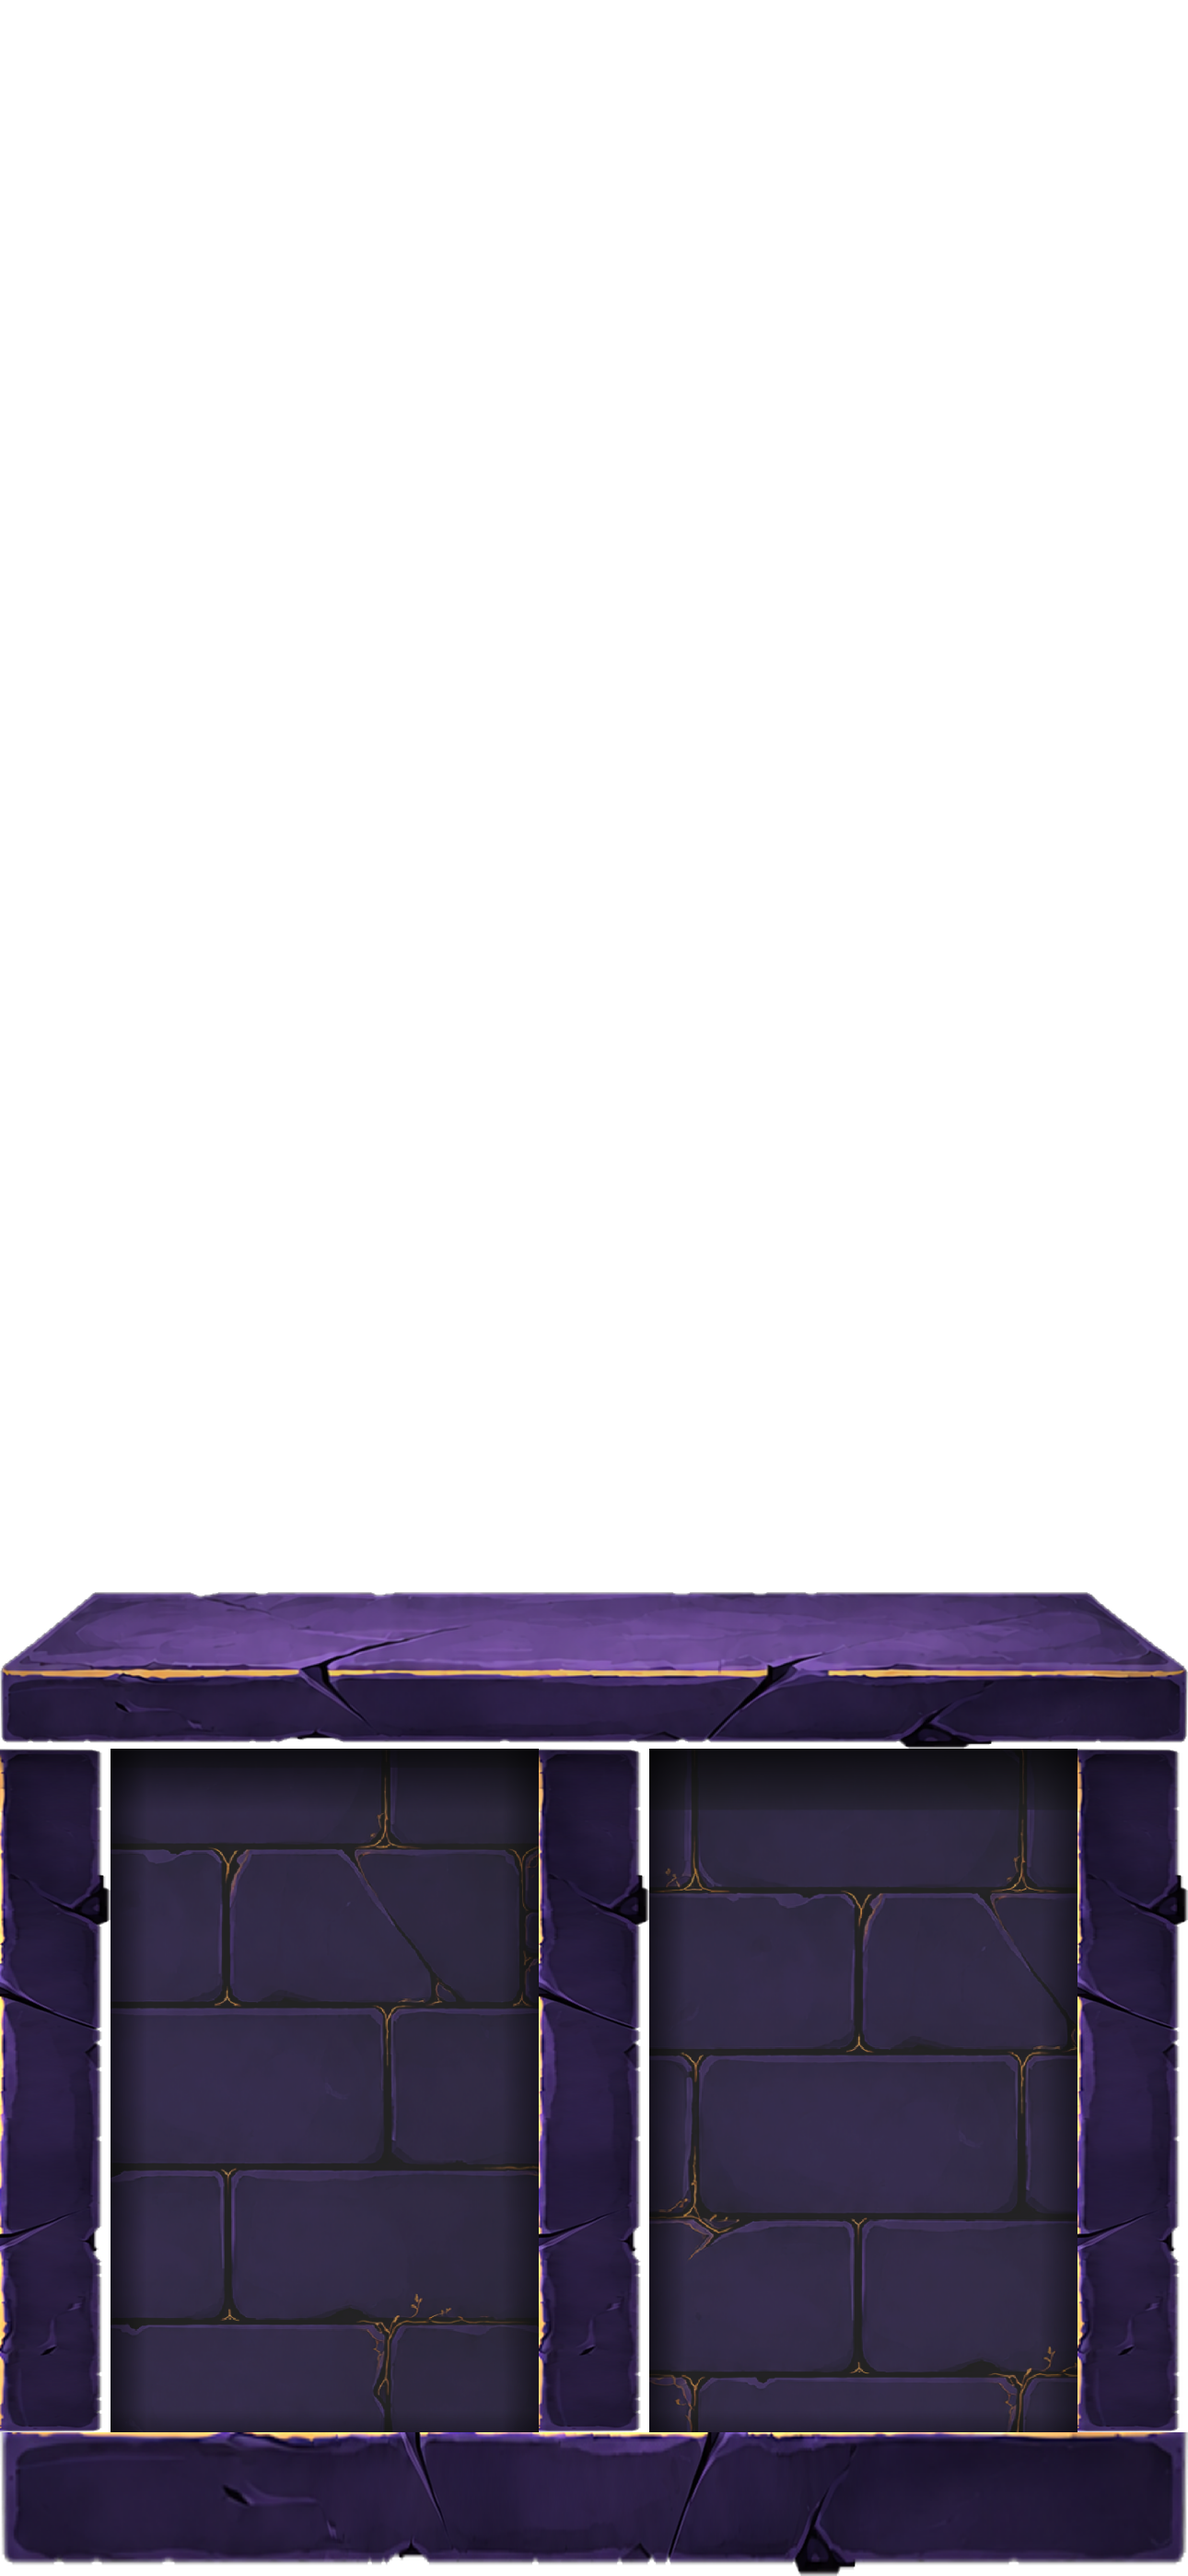
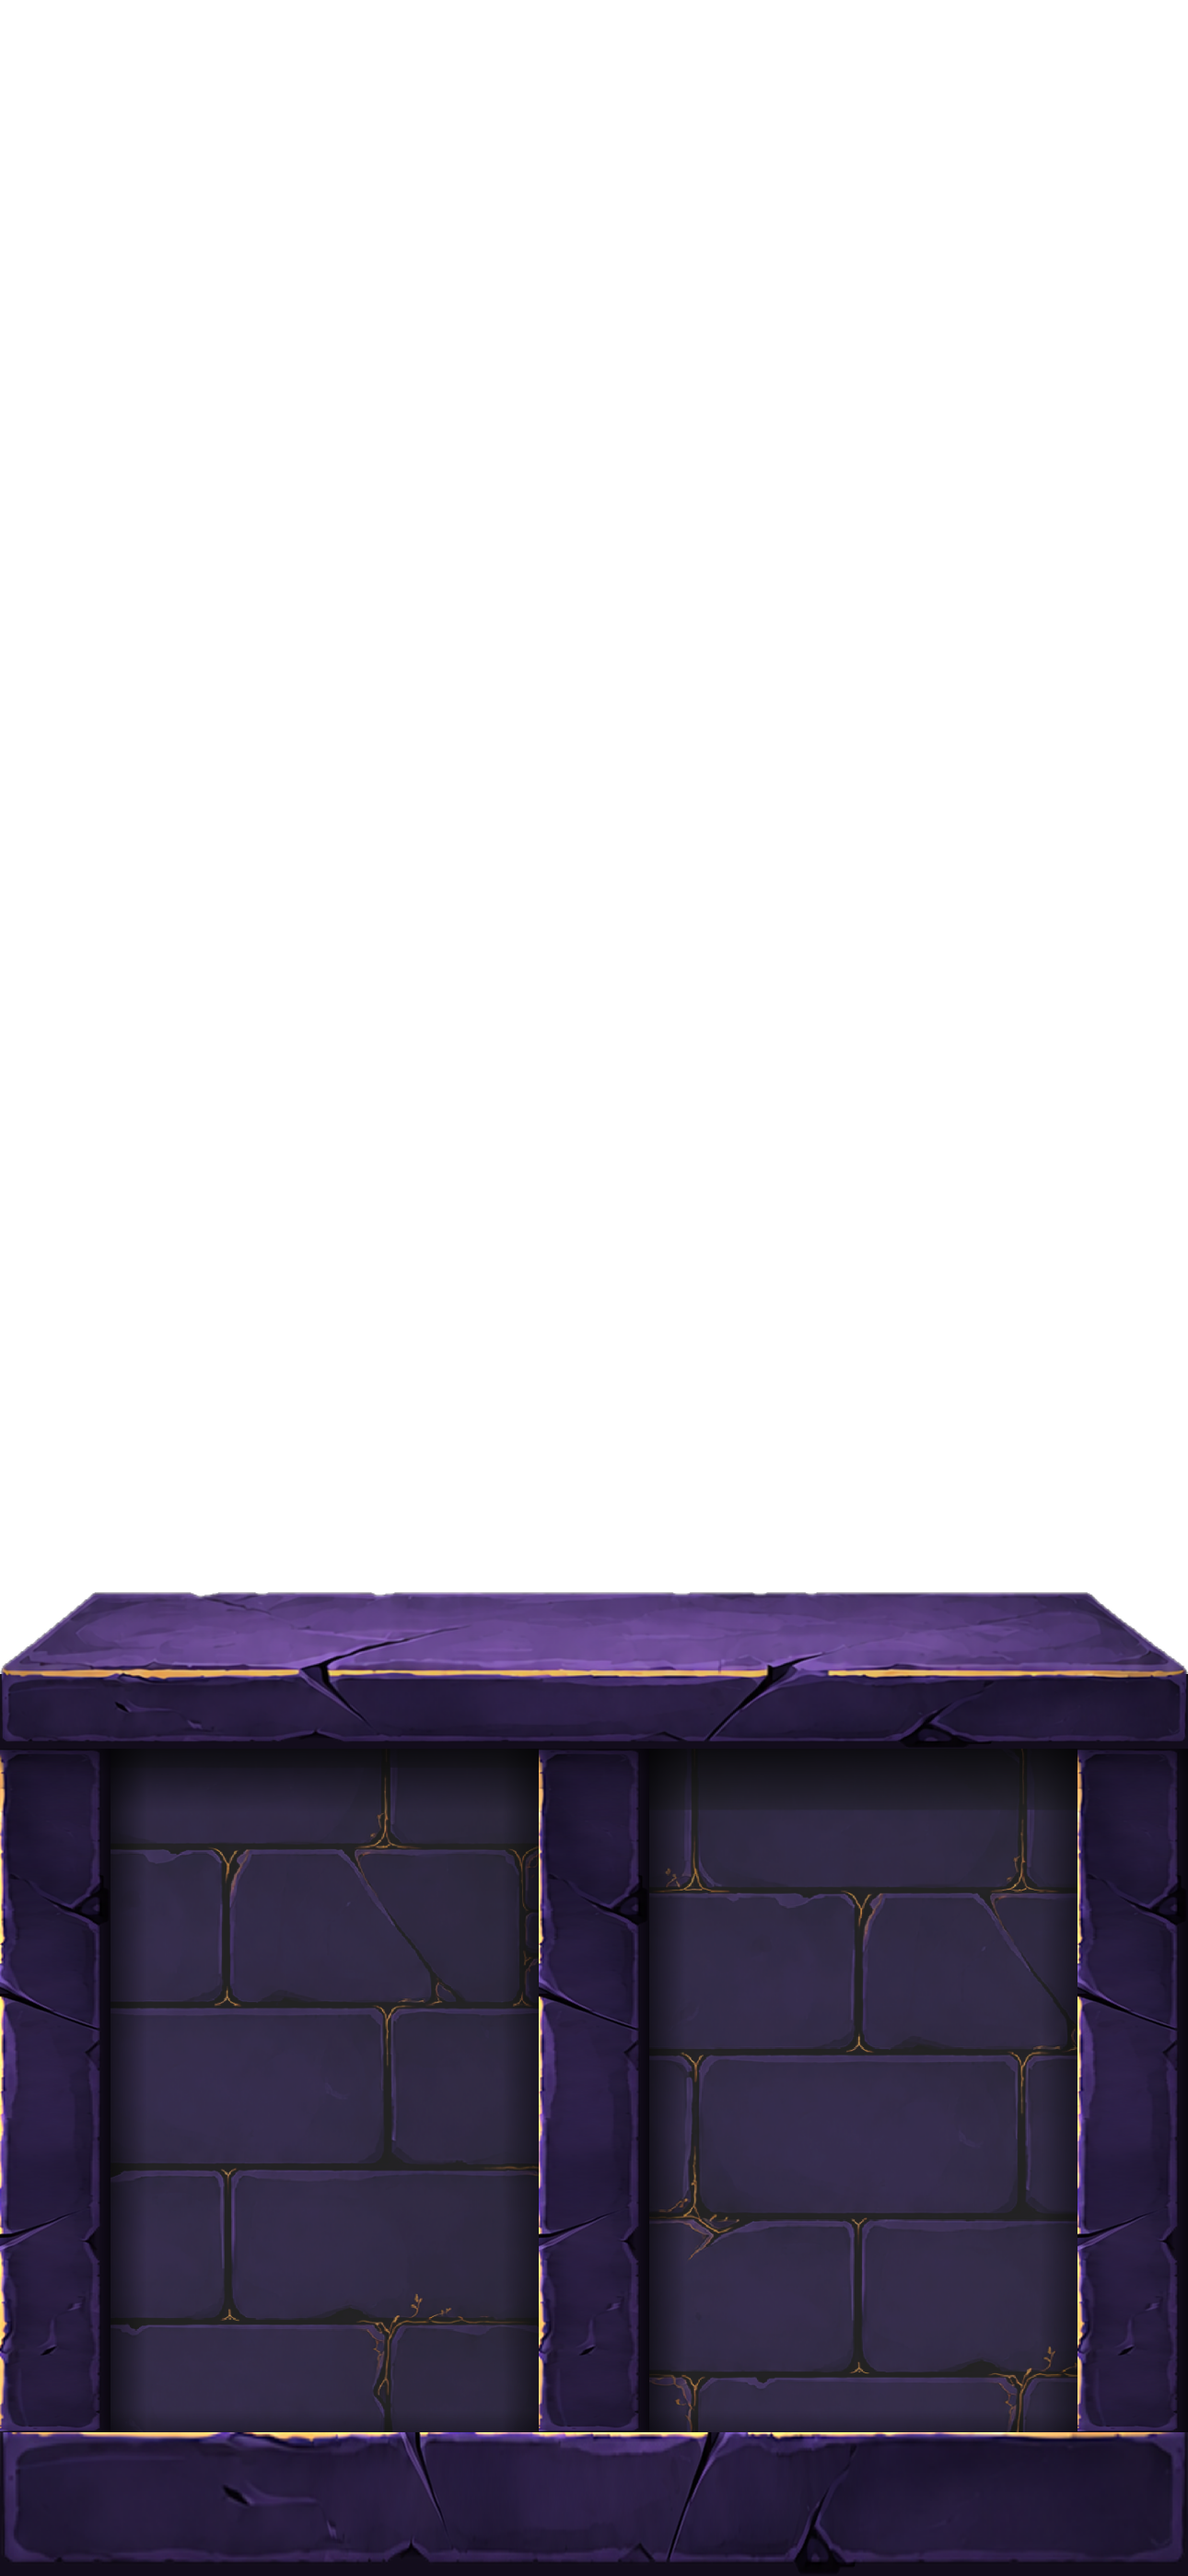
Daily: fix three device-only bugs from the first phone test
1. The castle drew over the HUD, Polly, the action label, the entry card and
   Results. The stage's layout-only root View could be flattened on native,
   letting its layers' zIndex 20-40 compete with the SafeAreaView beside it.
   With Results hidden behind the castle, the screen looked frozen. The stage
   root is now collapsable={false} at zIndex 1, with the SafeAreaView at 2. It
   was right in the browser, which stacks differently.
2. The stone blocks drew 22 pt short of their sockets and left-aligned. Their
   container kept the old flat cards' 11 pt horizontal padding, and native
   resolves an absolute child's 100% size inside the padding. The padding is
   gone; the label already insets itself.
3. The answer wall had see-through holes: about 6% of the pillar pixels, and
   slits along the pillar and capstone edges. They came from the slab art's
   alpha. build_daily_answer_wall.py now lays a solid crevice-coloured backing
   from the capstone's seam down, and asserts that the wall is opaque.

Claude-Session: https://claude.ai/code/session_01TxB5WRXMWunrcoTTHjrKMD

Changed region(s): [[0.0, 0.6534, 1.0, 1.0], [0.0, 0.6534, 0.7442, 0.9646]]

diff --git a/app/components/DailyAnswerCard.tsx b/app/components/DailyAnswerCard.tsx
@@ -615,8 +615,9 @@ export function DailyCastlePlaqueFace({
   return (
     <>
       {/* Size passed inline: a bundled image otherwise takes the art's own
-          150 × 60 as its size, which beat absoluteFill and a stylesheet 100%
-          and left the plaque short of the wider slot. */}
+          pixel size, which beat absoluteFill and a stylesheet 100% on web.
+          The container must have no padding, or native resolves 100% inside
+          it (see castlePlaque). */}
       <Image
         source={CASTLE_ANSWER_PLAQUE}
         resizeMode="stretch"
@@ -727,9 +728,10 @@ const styles = StyleSheet.create({
   },
   castlePlaque: {
     flex: 1,
-    alignItems: 'center',
-    justifyContent: 'center',
-    paddingHorizontal: 11,
+    // No padding. Both children are absolutely placed, and on native a 100%
+    // size resolves inside the padding: with 11 pt each side the stone came
+    // out 22 pt short of its socket, left-aligned (seen on device). The label
+    // insets itself (castlePlaqueFront).
     borderRadius: 6,
     overflow: 'hidden',
   },

diff --git a/app/components/DailyCastleStage.tsx b/app/components/DailyCastleStage.tsx
@@ -372,6 +372,11 @@ export default function DailyCastleStage({
       ref={stageRef}
       onLayout={measureStage}
       pointerEvents="box-none"
+      // Never flattened: the layers below carry zIndex 20–40 for their order
+      // inside the castle. If this layout-only View were flattened away (native
+      // does, web does not), those zIndexes would compete with the screen's
+      // SafeAreaView and draw the castle over the HUD, Polly and Results.
+      collapsable={false}
       style={styles.stage}
     >
       <Image
@@ -588,6 +593,8 @@ function DailyCastleFlightPlaque({
 const styles = StyleSheet.create({
   stage: {
     ...StyleSheet.absoluteFill,
+    // Under the screen's SafeAreaView (DailyChallengeScreen styles.content).
+    zIndex: 1,
   },
   layer: {
     position: 'absolute',

diff --git a/app/screens/DailyChallengeScreen.tsx b/app/screens/DailyChallengeScreen.tsx
@@ -1537,6 +1537,10 @@ const styles = StyleSheet.create({
   // edges; this holds everything that should respect the safe-area insets.
   content: {
     flex: 1,
+    // Above the castle stage (zIndex 1), which is its sibling: the HUD, Polly,
+    // the action label, the entry card and Results all live in here. It is
+    // box-none, so touches still reach the plaques in the stage below.
+    zIndex: 2,
   },
   startGate: {
     flex: 1,

diff --git a/tools/art/build_daily_answer_wall.py b/tools/art/build_daily_answer_wall.py
@@ -83,6 +83,23 @@ def main(out_path: Path) -> None:
         shade(a, x0, x1, PANEL_BOTTOM - 24, PANEL_BOTTOM, 1.0, 0.7, "y") # onto the sill
     canvas = img(a)
 
+    # Solid backing for the frame. The slab art has see-through cracks and
+    # ragged edges; laid on a transparent canvas, those became holes in the
+    # wall that showed whatever was drawn behind the castle (seen on device).
+    # Fill them with the front stone's own colour, darkened like a crevice.
+    fa = arr(front)
+    solid = fa[..., 3] > 250
+    crevice = fa[solid][:, :3].mean(axis=0) * 0.45
+    # From the capstone's gold seam down: its front face and ragged bottom
+    # edge are covered too, while its top face keeps its shape over the floor.
+    backing_top = CAP_TOP + round((SEAM + 3) * CAP_H / slab.height)
+    backing = np.empty((H - backing_top, W, 4), np.float32)
+    backing[..., :3] = crevice
+    backing[..., 3] = 255
+    under = img(backing)
+    under.alpha_composite(canvas.crop((0, backing_top, W, H)))
+    canvas.paste(under, (0, backing_top))
+
     # Pillars: the slab's front stone turned upright, edge-lit.
     pillar_tex = front.rotate(90, expand=True)
     for px in PILLARS:
@@ -103,6 +120,10 @@ def main(out_path: Path) -> None:
 
     # Capstone: the whole slab, top face and gold seam, across the wall.
     canvas.alpha_composite(three_slice(slab, W, CAP_H), (0, CAP_TOP))
+
+    # Everything below the capstone must be opaque: nothing behind the castle
+    # may show through the wall.
+    assert (np.asarray(canvas)[backing_top:, :, 3] == 255).all(), "holes in the wall"
 
     canvas.save(out_path, optimize=True)
     print(f"wrote {out_path} {canvas.size}")
